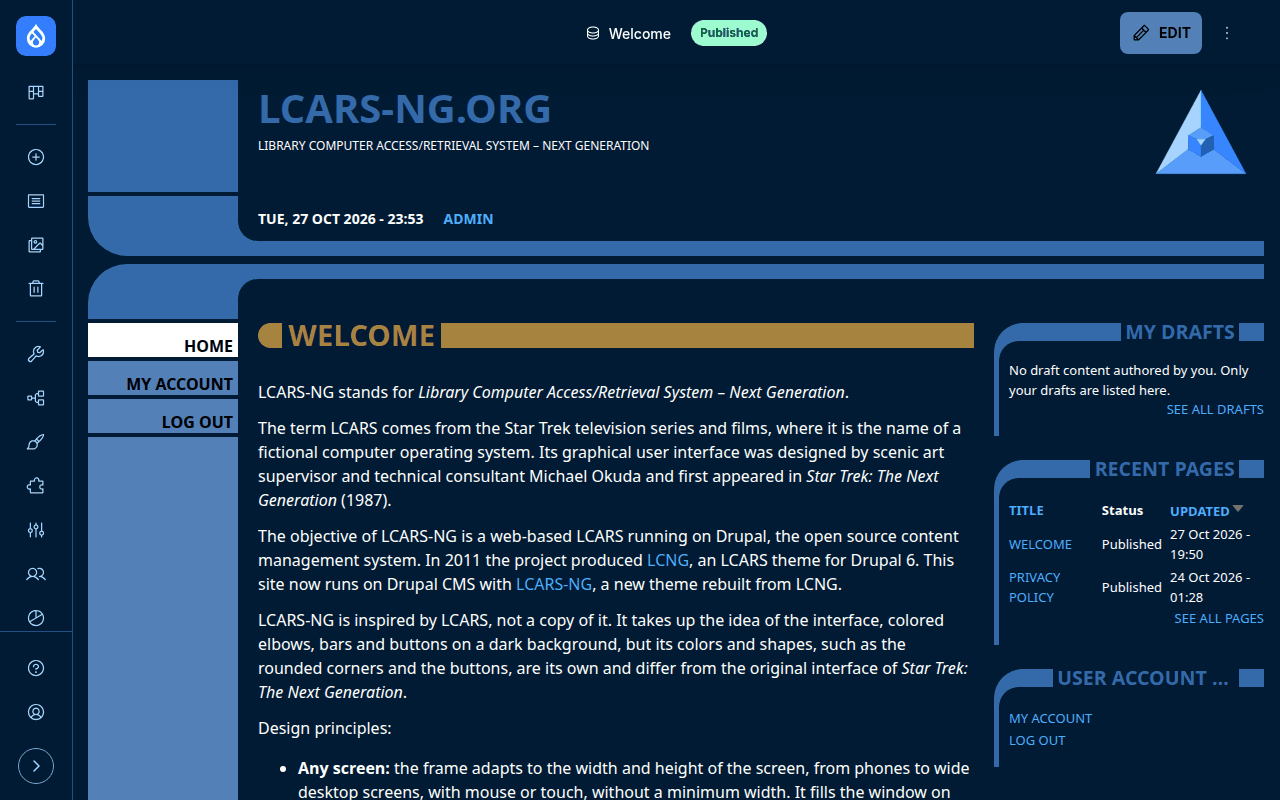
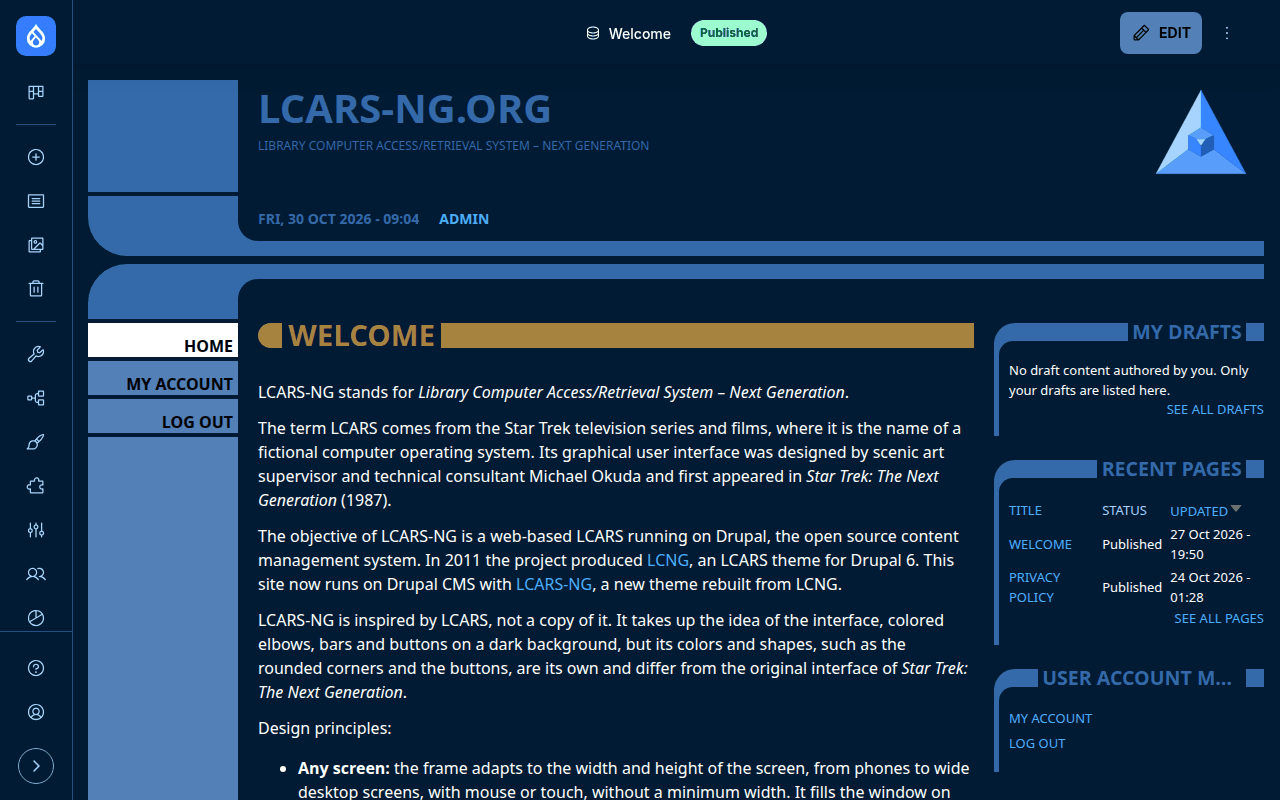
Update the screenshots of the README and mention reduced motion

diff --git a/README.md b/README.md
@@ -12,7 +12,8 @@ corners of boxes by their width; without JavaScript everything stays usable.
 The theme works as front-end theme and as administration theme. Its frame
 adapts to the width and height of the screen, from phones to wide desktop
 screens, for mouse and touch: it fills the window on short pages, and longer
-pages scroll.
+pages scroll. It follows the settings of the system for more contrast,
+contrast themes and reduced motion.
 
 <p>
   <a href="images/screenshots/front-page.png"><img src="images/screenshots/front-page.png" width="49%" alt="LCARS-NG front page for signed-in users, with the collapsed Navigation of Drupal on the left and its top bar: upper panel with site name, slogan and logo, status line with date and user, menu buttons on the left, content and panels below"></a>
@@ -75,13 +76,17 @@ favicon:
   gold title bars (*High*). *As the system* shows Standard, and High to
   visitors whose system asks for more contrast (for example *Increase
   contrast* on macOS). In the contrast themes of Windows the frame, the
-  buttons and the tabs keep their forms in the colors of the system.
+  buttons and the tabs keep their forms in the colors of the system. Where
+  the system asks for reduced motion, the loading indicator of Project
+  Browser pulses slowly instead of running, and the bar of the password
+  strength changes without transition.
 - **Generated user pictures** (`generated_user_pictures`, on by default):
   users without a picture of their own get a pattern made from their
   account in place of the default picture of the field (where the field has
-  one, as in Drupal CMS), as the identicons of GitHub: a grid of 5 by 5 cells, mirrored at its middle, in one of five
-  colors of the theme. The pattern follows from the UUID of the account and
-  stays the same; uploaded pictures are shown as they are.
+  one, as in Drupal CMS), as the identicons of GitHub: a grid of 5 by 5
+  cells, mirrored at its middle, in one of five colors of the theme. The
+  pattern follows from the UUID of the account and stays the same; uploaded
+  pictures are shown as they are.
 - **Collapsed packages on Extend** (`collapse_module_packages`, on by
   default): the packages of modules on *Extend* start collapsed instead of
   open, where LCARS-NG is the administration theme. The filter above the list
